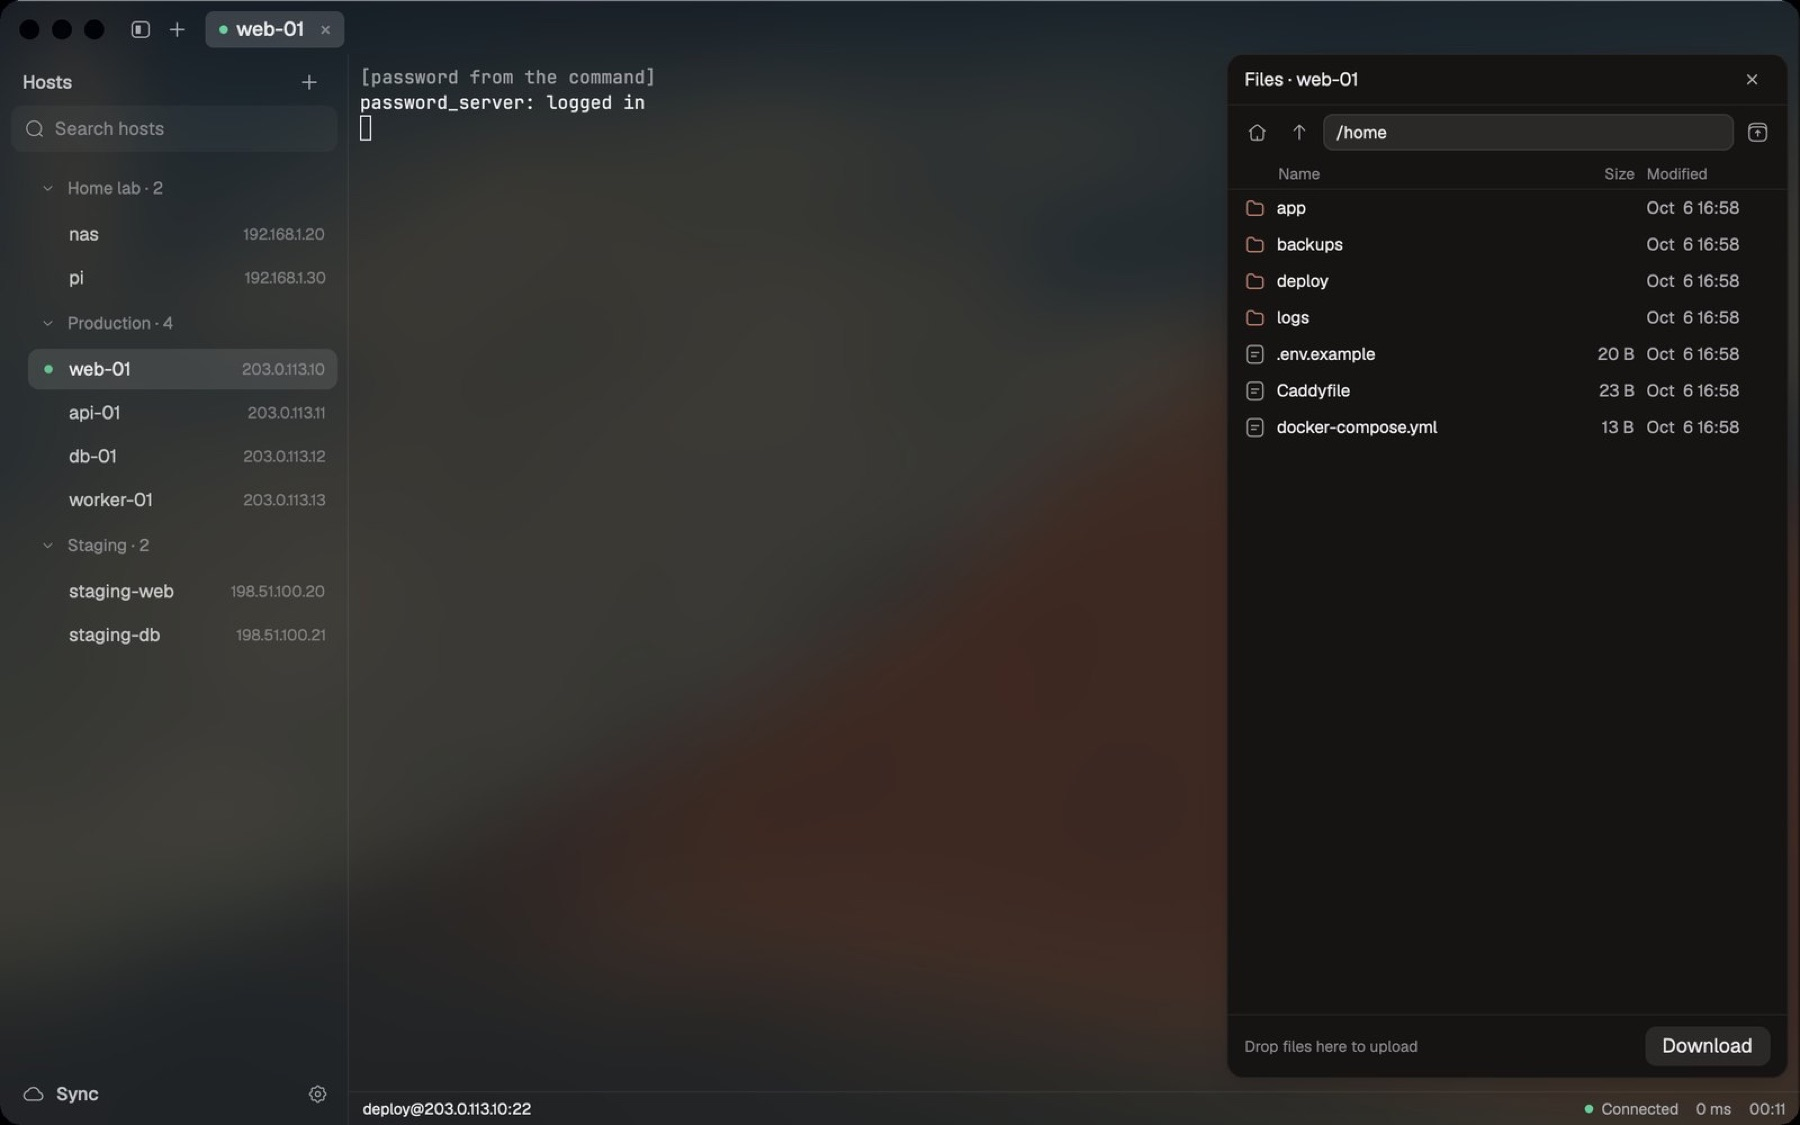
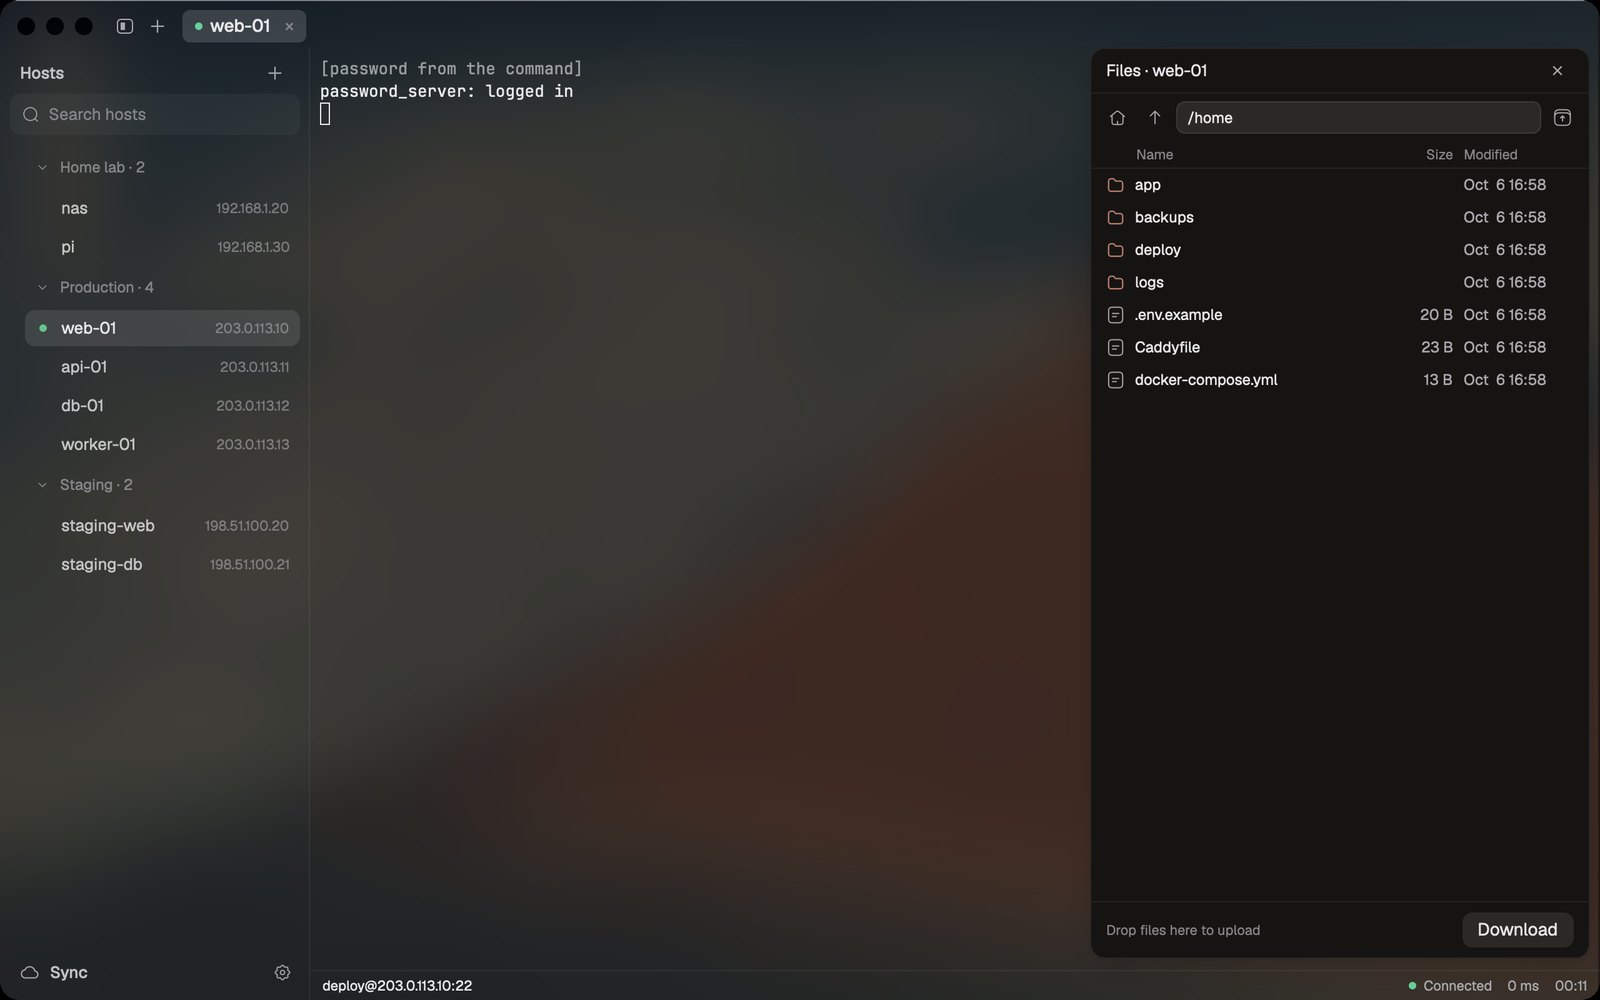
site: shipyard-style header and showcase sections
The header spans the full width: wordmark left; Docs, Download, a divider and GitHub
with the star count right. The showcase follows shipyard's rhythm: a small label, a
two-line headline beside a short paragraph, then one large framed screenshot, with
tabs (arrow-key navigable) where a section has several views. Connect, Passwords,
Real work, Memory, Sync, Make it yours.

diff --git a/site/index.html b/site/index.html
@@ -21,9 +21,11 @@
 </head>
 <body>
 <div class="nav-bar"><header class="nav">
-  <a class="brand" href="#top"><img src="assets/icon.svg" alt="" width="26" height="26"><span>tern</span></a>
-  <nav class="nav-r">
+  <a class="brand" href="#top"><img src="assets/icon.svg" alt="" width="22" height="22"><span>tern</span><span class="brand-sub">SSH client</span></a>
+  <nav class="nav-r" aria-label="Main">
+    <a href="https://github.com/your-moon/tern#readme">Docs</a>
     <a href="#download">Download</a>
+    <span class="nav-div" aria-hidden="true"></span>
     <a class="gh" href="https://github.com/your-moon/tern" aria-label="tern on GitHub"><svg width="15" height="15" viewBox="0 0 16 16" fill="currentColor" aria-hidden="true"><path d="M8 0C3.58 0 0 3.58 0 8c0 3.54 2.29 6.53 5.47 7.59.4.07.55-.17.55-.38 0-.19-.01-.82-.01-1.49-2.01.37-2.53-.49-2.69-.94-.09-.23-.48-.94-.82-1.13-.28-.15-.68-.52-.01-.53.63-.01 1.08.58 1.23.82.72 1.21 1.87.87 2.33.66.07-.52.28-.87.51-1.07-1.78-.2-3.64-.89-3.64-3.95 0-.87.31-1.59.82-2.15-.08-.2-.36-1.02.08-2.12 0 0 .67-.21 2.2.82a7.5 7.5 0 0 1 4 0c1.53-1.04 2.2-.82 2.2-.82.44 1.1.16 1.92.08 2.12.51.56.82 1.27.82 2.15 0 3.07-1.87 3.75-3.65 3.95.29.25.54.73.54 1.48 0 1.07-.01 1.93-.01 2.2 0 .21.15.46.55.38A8.01 8.01 0 0 0 16 8c0-4.42-3.58-8-8-8z"/></svg><span class="stars" hidden><b class="star-n"></b></span></a>
   </nav>
 </header></div>
@@ -41,53 +43,64 @@
     <p class="fine"><span id="dl-fine">For Apple silicon Macs, signed and notarised. Open source.</span> <span id="ver">v0.1.3</span> · <a href="https://github.com/your-moon/tern#install">How to install ›</a><br><span id="dl-other">Windows and Linux (preview): <a data-asset="windows-x86_64.zip" href="https://github.com/your-moon/tern/releases/latest/download/tern-0.1.3-windows-x86_64.zip">.zip</a> · <a data-asset="linux-x86_64.tar.gz" href="https://github.com/your-moon/tern/releases/latest/download/tern-0.1.3-linux-x86_64.tar.gz">.tar.gz</a>, x86-64.</span></p>
   </div>
 </section>
-
-<section class="shot-wrap">
-  <figure class="frame"><img src="assets/terminal.jpg" width="1600" height="1000" alt="tern connected to web-01 and running htop, status line showing Connected, 1 ms and session time"></figure>
-</section>
-
-<section class="row wrap">
-  <div class="txt">
-    <h2>Passwords that stay out of the way</h2>
-    <p>Logins come from your SSH key, your password manager (any command, like <code>op read …</code> or <code>pass show …</code>), or tern's encrypted vault.</p>
-    <p>At a sudo prompt, press <kbd>⌘\</kbd> (<kbd>Ctrl+Shift+\</kbd> on Windows and Linux) and tern types it. Never on its own.</p>
+<section class="sec">
+  <div class="sec-head">
+    <div><p class="label">Connect</p><h2 class="two">One shortcut.<br>Any server.</h2></div>
+    <div class="sec-p"><p>Press <kbd>⌘K</kbd> and type a few letters: tern finds the host, ordered by what you used last, and connects. Groups, tags, ProxyJump and port forwards are set once per host, and a dropped network reconnects on its own.</p></div>
   </div>
-  <figure class="vis"><img src="assets/sudo.jpg" width="800" height="350" loading="lazy" alt="sudo docker ps at a [sudo] password for deploy prompt, then the container list"></figure>
+  <div class="tabbar"><div class="tabs" role="tablist" aria-label="connect"><button type="button" role="tab" aria-selected="true" aria-controls="connect-0" id="connect-t0">Host picker</button><button type="button" role="tab" aria-selected="false" aria-controls="connect-1" id="connect-t1">Session</button></div></div>
+  <figure class="stage"><div class="pane" role="tabpanel" id="connect-0" aria-labelledby="connect-t0"><img src="assets/picker.jpg" width="1600" height="1000" loading="lazy" alt="The ⌘K host picker filtering saved hosts"></div><div class="pane" role="tabpanel" id="connect-1" aria-labelledby="connect-t1" hidden><img src="assets/terminal.jpg" width="1600" height="1000" loading="lazy" alt="tern connected to web-01 and running htop"></div></figure>
 </section>
 
-<section class="row rev wrap" id="memory">
-  <div class="vis chart" role="img" aria-label="Memory when connected: tern 76 MB, Tabby 580 MB, Termius 583 MB idle">
+<section class="sec">
+  <div class="sec-head">
+    <div><p class="label">Passwords</p><h2 class="two">Passwords stay<br>where they are.</h2></div>
+    <div class="sec-p"><p>Logins come from your SSH key, your password manager (any command, like <code>op read …</code> or <code>pass show …</code>), or tern's encrypted vault. At a sudo prompt, press <kbd>⌘\</kbd> (<kbd>Ctrl+Shift+\</kbd> on Windows and Linux) and tern types it. Never on its own.</p></div>
+  </div>
+  <figure class="stage"><img src="assets/docker.jpg" width="1600" height="1000" loading="lazy" alt="sudo docker ps with the sudo password filled by ⌘\"></figure>
+</section>
+
+<section class="sec">
+  <div class="sec-head">
+    <div><p class="label">Real work</p><h2 class="two">Everything a<br>long session needs.</h2></div>
+    <div class="sec-p"><p>Split panes and find in scrollback, an SFTP panel to browse and drop files, snippets for the commands you run every day, broadcast input to chosen tabs, and session logs.</p></div>
+  </div>
+  <div class="tabbar"><div class="tabs" role="tablist" aria-label="work"><button type="button" role="tab" aria-selected="true" aria-controls="work-0" id="work-t0">Splits and find</button><button type="button" role="tab" aria-selected="false" aria-controls="work-1" id="work-t1">Files</button><button type="button" role="tab" aria-selected="false" aria-controls="work-2" id="work-t2">Snippets</button></div></div>
+  <figure class="stage"><div class="pane" role="tabpanel" id="work-0" aria-labelledby="work-t0"><img src="assets/split.jpg" width="1600" height="1000" loading="lazy" alt="Two panes side by side with find in scrollback"></div><div class="pane" role="tabpanel" id="work-1" aria-labelledby="work-t1" hidden><img src="assets/sftp.jpg" width="1600" height="1000" loading="lazy" alt="The SFTP side panel listing a remote home folder"></div><div class="pane" role="tabpanel" id="work-2" aria-labelledby="work-t2" hidden><img src="assets/snippets.jpg" width="1600" height="1000" loading="lazy" alt="The snippets picker filtering docker commands"></div></figure>
+</section>
+
+<section class="sec">
+  <div class="sec-head">
+    <div><p class="label">Memory</p><h2 class="two">76 MB.<br>Not 580.</h2></div>
+    <div class="sec-p"><p>One native process, no browser engine. Connected to the same server, tern settles at 76 MB where Tabby takes 580. Measured with macOS <code>footprint</code>; the <a href="https://github.com/your-moon/tern/blob/main/docs/perf.md">method and raw samples</a> are in the repo.</p></div>
+  </div>
+  <div class="stage chart" role="img" aria-label="Memory when connected: tern 76 MB, Tabby 580 MB, Termius 583 MB idle">
     <div class="bar"><span class="lbl">tern</span><span class="track"><i class="fill accent" style="width:12.67%"></i></span><span class="val">76 MB</span></div>
     <div class="bar"><span class="lbl">Tabby</span><span class="track"><i class="fill" style="width:96.67%"></i></span><span class="val">580 MB</span></div>
-    <div class="bar"><span class="lbl">Termius</span><span class="track"><i class="fill dim" style="width:97.17%"></i></span><span class="val">583 MB<small>idle, connected not measured</small></span></div>
+    <div class="bar"><span class="lbl">Termius</span><span class="track"><i class="fill dim" style="width:97.17%"></i></span><span class="val">583 MB<small>idle; connected not measured</small></span></div>
     <p class="cap">Connected, settled at two minutes</p>
   </div>
-  <div class="txt">
-    <h2>Light on memory</h2>
-    <p>One native process, no browser engine. Measured with macOS <code>footprint</code>, <a href="https://github.com/your-moon/tern/blob/main/docs/perf.md">method in docs/perf.md</a>.</p>
-  </div>
 </section>
 
-<section class="wrap work">
-  <h2>Built for real work</h2>
-  <p class="sub">Split panes, find in scrollback, SFTP, port forwards, ProxyJump, broadcast input, session logs, automatic reconnect.</p>
-  <div class="three">
-    <figure><img src="assets/split.jpg" width="1800" height="1125" loading="lazy" alt="Split panes with find in scrollback"><figcaption>splits and find</figcaption></figure>
-    <figure><img src="assets/sftp.jpg" width="1800" height="1125" loading="lazy" alt="SFTP side panel"><figcaption>sftp side panel</figcaption></figure>
-    <figure><img src="assets/snippets.jpg" width="1800" height="1125" loading="lazy" alt="Snippets palette"><figcaption>snippets ⇧⌘S</figcaption></figure>
+<section class="sec">
+  <div class="sec-head">
+    <div><p class="label">Sync</p><h2 class="two">Your setup,<br>in your own repo.</h2></div>
+    <div class="sec-p"><p>Hosts, snippets and settings sync to a private Git repository you own, encrypted with your vault passphrase before they leave your computer. No account, no subscription.</p></div>
   </div>
-</section>
-
-<section class="row wrap">
-  <div class="txt">
-    <h2>Your setup, backed up</h2>
-    <p>Hosts, snippets and settings sync to a Git repo you own, encrypted with your vault passphrase before they leave your computer.</p>
-  </div>
-  <div class="vis flow" role="img" aria-label="Your computer, age-encrypted, to your private Git repo">
+  <div class="stage flow" role="img" aria-label="Your computer, age-encrypted, to your private Git repo">
     <div class="node"><img src="assets/icon.svg" alt="" width="40" height="40"><b>Your computer</b></div>
     <div class="edge"><span>age-encrypted</span></div>
     <div class="node"><svg width="34" height="34" viewBox="0 0 24 24" fill="none" stroke="currentColor" stroke-width="1.5" aria-hidden="true"><circle cx="6" cy="6" r="2.2"/><circle cx="6" cy="18" r="2.2"/><circle cx="18" cy="9" r="2.2"/><path d="M6 8.2v7.6M18 11.2c0 4-6 2.5-11 5.5"/></svg><b>Your private Git repo</b></div>
   </div>
+</section>
+
+<section class="sec">
+  <div class="sec-head">
+    <div><p class="label">Make it yours</p><h2 class="two">Your wallpaper.<br>Your colours.</h2></div>
+    <div class="sec-p"><p>Seven public-domain artworks built in, or any image. The window takes its colours from it and keeps every line readable, in light, dark or following your system. Any monospace font, any of 725 terminal themes.</p></div>
+  </div>
+  <div class="tabbar"><div class="tabs" role="tablist" aria-label="look"><button type="button" role="tab" aria-selected="true" aria-controls="look-0" id="look-t0">Wallpaper</button><button type="button" role="tab" aria-selected="false" aria-controls="look-1" id="look-t1">Light</button><button type="button" role="tab" aria-selected="false" aria-controls="look-2" id="look-t2">Settings</button></div></div>
+  <figure class="stage"><div class="pane" role="tabpanel" id="look-0" aria-labelledby="look-t0"><img src="assets/wallpaper.jpg" width="1600" height="1000" loading="lazy" alt="Hosts in a frosted sidebar over Hokusai's Great Wave"></div><div class="pane" role="tabpanel" id="look-1" aria-labelledby="look-t1" hidden><img src="assets/light.jpg" width="1600" height="1000" loading="lazy" alt="tern in light appearance over Van Gogh's Wheat Field"></div><div class="pane" role="tabpanel" id="look-2" aria-labelledby="look-t2" hidden><img src="assets/settings.jpg" width="1600" height="1000" loading="lazy" alt="Settings, Appearance, with the wallpaper gallery"></div></figure>
 </section>
 
 <section class="wrap dl" id="download">
@@ -157,6 +170,16 @@
     document.querySelectorAll('.star-n').forEach(function(b){b.textContent=txt});
     document.querySelectorAll('.stars').forEach(function(s){s.hidden=false});
   }).catch(function(){});
+  // Tabs over a framed screenshot: one pane visible, arrow keys move between tabs.
+  document.querySelectorAll('.tabs').forEach(function(list){
+    var tabs=[].slice.call(list.querySelectorAll('[role=tab]'));
+    function show(t){tabs.forEach(function(x){var on=x===t;x.setAttribute('aria-selected',on);x.tabIndex=on?0:-1;document.getElementById(x.getAttribute('aria-controls')).hidden=!on});}
+    tabs.forEach(function(t,i){
+      t.tabIndex=i?-1:0;
+      t.addEventListener('click',function(){show(t)});
+      t.addEventListener('keydown',function(e){var d=e.key==='ArrowRight'?1:e.key==='ArrowLeft'?-1:0;if(!d)return;var n=tabs[(i+d+tabs.length)%tabs.length];show(n);n.focus();e.preventDefault();});
+    });
+  });
 })();
 </script>
 </body>

diff --git a/site/style.css b/site/style.css
@@ -9,11 +9,15 @@ code,kbd{font-family:"Geist Mono",ui-monospace,monospace;font-size:.88em;backgro
 
 /* Nav: a white bar with a hairline, above the picture. */
 .nav-bar{border-bottom:1px solid var(--line);background:var(--bg)}
-.nav{max-width:1080px;margin:0 auto;padding:12px 20px;display:flex;justify-content:space-between;align-items:center}
-.brand{display:flex;align-items:center;gap:9px;font-weight:600;letter-spacing:-.01em}
-.brand img{border-radius:7px}
-.nav-r{display:flex;align-items:center;gap:6px}
-.nav-r a{font-size:13px;color:var(--mut);padding:6px 10px;border-radius:7px}
+.nav{padding:0 24px;height:56px;display:flex;justify-content:space-between;align-items:center}
+.brand{display:flex;align-items:center;gap:8px;font-size:17px;font-weight:600;letter-spacing:-.02em}
+.brand-sub{font-weight:500;color:#a3a0ab}
+.brand img{border-radius:6px}
+.nav-r{display:flex;align-items:center;gap:4px}
+.nav-r a{font-size:14px;color:var(--fg);padding:6px 10px;border-radius:7px}
+.nav-div{width:1px;height:18px;background:var(--line);margin:0 8px}
+.gh{color:var(--mut)!important}
+.gh .stars b{color:var(--mut);font-weight:400}
 .nav-r a:hover{color:var(--fg);background:var(--soft)}
 .gh{display:inline-flex;align-items:center;gap:6px}
 .stars{display:inline-flex;align-items:center;gap:3px;font-variant-numeric:tabular-nums}
@@ -33,8 +37,8 @@ h1{font-size:clamp(34px,4.6vw,52px);line-height:1.08;font-weight:600;letter-spac
 .btn.ghost:hover{background:var(--soft)}
 .btn .stars{margin-left:2px;padding-left:9px;border-left:1px solid var(--line);color:var(--mut)}
 .fine{margin-top:18px;font-size:12.5px;color:var(--dim);line-height:1.7}
-.fine a,.sub a,.txt a{color:var(--fg);border-bottom:1px solid rgba(29,27,34,.25)}
-.fine a:hover,.sub a:hover,.txt a:hover{border-bottom-color:var(--fg)}
+.fine a,.sub a,.sec-p a{color:var(--fg);border-bottom:1px solid rgba(29,27,34,.25)}
+.fine a:hover,.sub a:hover,.sec-p a:hover{border-bottom-color:var(--fg)}
 .brew{display:inline-flex;align-items:center;gap:6px;margin-top:12px;padding:4px 4px 4px 10px;border:1px solid var(--line);border-radius:9px;background:var(--soft)}
 .brew code{background:none;border:0;padding:0;color:var(--mut);font-size:12.5px}
 .brew button{font:500 11.5px Geist,system-ui,sans-serif;color:var(--fg);background:#fff;border:1px solid var(--line);border-radius:6px;padding:3px 9px;cursor:pointer}
@@ -42,21 +46,27 @@ h1{font-size:clamp(34px,4.6vw,52px);line-height:1.08;font-weight:600;letter-spac
 .badge{display:inline-flex;gap:6px;align-items:center;font-size:12px;padding:4px 11px;border-radius:15px;background:rgba(255,255,255,.85);border:1px solid var(--line);margin-bottom:16px;color:var(--mut)}
 .badge:hover{color:var(--fg)}
 
-/* Sections. */
-.shot-wrap{position:relative;max-width:1180px;margin:0 auto;padding:0 20px}
-.frame{border-radius:14px;border:1px solid var(--line);overflow:hidden;background:#111;box-shadow:0 1px 2px rgba(29,27,34,.06),0 24px 60px -20px rgba(29,27,34,.28)}
-.frame img{width:100%}
+/* Sections: shipyard's rhythm. */
+.sec{max-width:1080px;margin:150px auto 0;padding:0 20px}
+.sec-head{display:grid;grid-template-columns:1fr 1fr;gap:56px;align-items:end;margin-bottom:40px}
+.label{display:flex;align-items:center;gap:10px;font:12.5px "Geist Mono",ui-monospace,monospace;color:var(--dim);margin-bottom:18px}
+.label::before{content:"";width:22px;height:1px;background:currentColor}
+h2.two{font-size:clamp(32px,4.2vw,46px);line-height:1.04;letter-spacing:-.04em}
+.sec-p p{color:var(--mut);font-size:16px;line-height:1.6;max-width:460px}
+.sec-p kbd,.sec-p code{color:var(--fg)}
+.tabbar{display:flex;justify-content:center;margin-bottom:14px}
+.tabs{display:inline-flex;gap:2px;padding:3px;background:var(--soft);border:1px solid var(--line);border-radius:10px}
+.tabs button{font:500 13px Geist,system-ui,sans-serif;color:var(--mut);background:none;border:0;border-radius:7px;padding:6px 13px;cursor:pointer}
+.tabs button:hover{color:var(--fg)}
+.tabs button[aria-selected=true]{background:#fff;color:var(--fg);box-shadow:0 1px 2px rgba(29,27,34,.12),0 0 0 1px rgba(29,27,34,.06)}
+.stage{border-radius:14px;border:1px solid var(--line);overflow:hidden;background:#141218;box-shadow:0 1px 2px rgba(29,27,34,.05),0 30px 70px -30px rgba(29,27,34,.35)}
+.stage img{display:block;width:100%}
+.stage.chart,.stage.flow{box-shadow:none}
 .wrap{max-width:1080px;margin:0 auto;padding:0 20px}
-section.wrap,.row{margin-top:150px}
 h2{font-size:28px;line-height:1.2;font-weight:600;letter-spacing:-.03em}
 h2.big{font-size:36px}
 .sub{color:var(--mut);margin:12px auto 0;max-width:620px}
-.row{display:grid;grid-template-columns:1fr 1.25fr;gap:64px;align-items:center}
-.row.rev{grid-template-columns:1.25fr 1fr}
-.txt p{color:var(--mut);margin-top:16px;max-width:440px}
-.txt h2{max-width:420px}
-.vis img{border-radius:12px;border:1px solid var(--line);width:100%}
-.chart{display:flex;flex-direction:column;gap:20px;padding:30px;border:1px solid var(--line);border-radius:14px;background:var(--soft)}
+.chart{display:flex;flex-direction:column;gap:22px;padding:44px 48px;background:var(--soft)}
 .bar{display:grid;grid-template-columns:62px 1fr 92px;gap:14px;align-items:center;font-size:14px}
 .lbl{color:var(--mut)}
 .track{height:14px;border-radius:7px;background:rgba(29,27,34,.06);overflow:hidden}
@@ -66,11 +76,7 @@ h2.big{font-size:36px}
 .val{font-family:"Geist Mono",monospace;font-size:13px;line-height:1.3}
 .val small{display:block;font-family:Geist,sans-serif;font-size:11px;color:var(--dim)}
 .cap{font-size:12px;color:var(--dim);font-family:"Geist Mono",monospace}
-.work{text-align:center}
-.three{display:grid;grid-template-columns:repeat(3,1fr);gap:20px;margin-top:48px;text-align:left}
-.three img{border-radius:12px;border:1px solid var(--line)}
-.three figcaption{margin-top:12px;font:12px "Geist Mono",monospace;color:var(--dim)}
-.flow{display:flex;align-items:center;justify-content:center;padding:44px 20px;border:1px solid var(--line);border-radius:14px;background:var(--soft)}
+.flow{display:flex;align-items:center;justify-content:center;padding:64px 20px;background:var(--soft)}
 .node{display:flex;flex-direction:column;align-items:center;gap:10px;text-align:center;font-size:13px;font-weight:500;padding:18px 16px;border:1px solid var(--line);border-radius:12px;background:#fff;width:140px;color:var(--mut)}
 .node b{font-weight:500;color:var(--fg)}
 .node img{border-radius:9px}
@@ -82,7 +88,8 @@ h2.big{font-size:36px}
 .rows em{font:12px "Geist Mono",monospace;color:var(--dim);margin-left:10px}
 .mini{font-size:12px;padding:5px 14px;border-radius:7px;border:1px solid rgba(29,27,34,.18);color:var(--fg)}
 .mini:hover{background:var(--soft)}
-.cta-end{max-width:640px}
+.wrap.dl{margin-top:150px}
+.wrap.cta-end{max-width:640px;margin-top:110px}
 .cta.left{justify-content:flex-start}
 .link{color:var(--mut);font-size:14px}
 .link:hover{color:var(--fg)}
@@ -91,13 +98,15 @@ h2.big{font-size:36px}
 @media (max-width:800px){
  .art{height:240px;background-size:1200px auto;background-position:62% bottom}
  .hero-in{margin-top:-64px}
- .row,.row.rev{grid-template-columns:1fr;gap:32px}
- section.wrap,.row{margin-top:100px}
- .three{grid-template-columns:1fr}
- .row.rev .txt{order:-1}
+ .nav{padding:0 16px}
+ .brand-sub,.nav-div{display:none}
+ .sec{margin-top:96px}
+ .wrap.dl{margin-top:96px}
+ .wrap.cta-end{margin-top:80px}
+ .sec-head{grid-template-columns:1fr;gap:16px;margin-bottom:24px}
+ .chart{padding:24px}
  h2.big{font-size:28px}
  .bar{grid-template-columns:54px 1fr 80px;gap:10px}
- .chart{padding:20px}
  .node{width:104px;padding:14px 8px;font-size:12px}
  .edge{min-width:44px}
  .brew code{font-size:11px}
